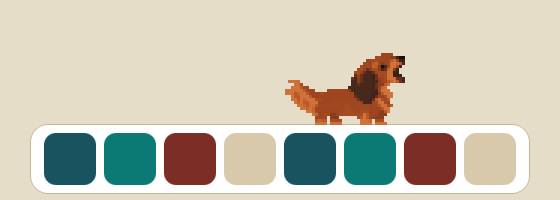
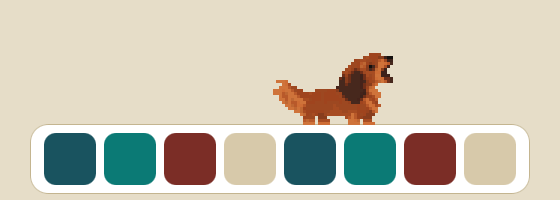
Zadni nohy pri chuzi kracaji (varianta A), chuze s mickem ve 4 fazich
- art/zadni_nohy.py: zadni nohy smaze a domaluje ve ctyrech fazich kroku (blizsi
  a vzdalenejsi noha se stridaji, noha vpred se zvedne); telo, hlava, predni nohy
  a micek zustavaji ze snimku z Higgsfieldu; spousti se i z art/rozrez.py
- s mickem v tlame ma chuze nove 4 snimky (mic_chuze0-3) misto 2
- GIFy na webu pretocene; tools/ukazky.py zna i scenu hlazeni

Changed region(s): [[0.4857, 0.24, 0.7286, 0.63]]

diff --git a/Sources/Pet.swift b/Sources/Pet.swift
@@ -1114,7 +1114,9 @@ final class Pet {
         case 1:
             if DogRenderer.frames["mic_stoji"] == nil { return moving ? walkFrame : "stoji" }
             if !moving { return "mic_stoji" }
-            return Int((phase * 1.3 / (.pi / 2)).rounded(.down)) & 1 == 0 ? "mic_chuze0" : "mic_chuze1"
+            // čtyři fáze kroku (zadní nohy domalované art/zadni_nohy.py); starší sada má jen dvě
+            let k = Int((phase * 1.3 / (.pi / 2)).rounded(.down)) & 3
+            return DogRenderer.frames["mic_chuze\(k)"] != nil ? "mic_chuze\(k)" : (k & 1 == 0 ? "mic_chuze0" : "mic_chuze1")
         default: return "sedi"
         }
     }

diff --git a/art/zadni_nohy.py b/art/zadni_nohy.py
@@ -1,0 +1,140 @@
+#!/usr/bin/env python3
+"""Zadní nohy při chůzi: Higgsfield je nakreslil skoro stejně ve všech snímcích (a s míčkem
+v tlamě má chůze jen dva snímky), takže to vypadalo, že je Julie táhne za sebou.
+Skript zadní nohy smaže a domaluje je ve čtyřech fázích kroku: bližší a vzdálenější noha
+se střídají (vzad – přenos se zvednutou tlapkou – vpřed – pod tělem). Tělo, hlava,
+přední nohy i míček zůstávají ze snímků z Higgsfieldu.
+
+    python3 art/zadni_nohy.py nahled      # jen náhled do art/navrhy/nohy/ (nic nepřepisuje)
+    python3 art/zadni_nohy.py             # zapíše chuze0–3 a mic_chuze0–3 do art/sprity/
+
+Karel 11. 10. 2026 vybral variantu A (celé zadní nohy nově, širší stehno); B nechávala
+huňatá stehna a hýbala jen spodkem nohou. Opakované spuštění dá stejný výsledek.
+
+Souřadnice v pixelech snímku, y roste dolů. Spouští se po art/rozrez.py (ten snímky přepíše).
+"""
+import os, sys
+from PIL import Image
+
+TU = os.path.dirname(os.path.abspath(__file__))
+SPR = os.path.join(TU, "sprity")
+
+BLIZKA = (0x9f, 0x44, 0x1e, 255)       # rezavá srst bližší nohy
+STIN = (0x88, 0x3d, 0x1d, 255)         # zadní hrana a vzdálenější noha
+TLAPKA = (0xce, 0x6d, 0x35, 255)       # světlá tlapka
+TLAPKA_D = (0xa7, 0x4c, 0x22, 255)     # tlapka vzdálenější nohy
+
+# fáze bližší nohy: (posun chodidla vůči kyčli, zvednutí); vzdálenější noha je o dvě fáze dál
+KROK = [(-3, 0), (-1, 1), (2, 0), (0, 0)]
+
+
+def noha(px, w, h, kycel, horni, zem, dx, zdvih, srst, hrana, tlapka, siroka):
+    """Noha od kyčle (x, horni) šikmo k chodidlu (x+dx, zem-zdvih). `siroka` = šířka nahoře
+    (stehno), dole se zúží na 3 px; zadní hrana je tmavší (srst), tlapka o pixel delší dopředu."""
+    spodek = zem - zdvih
+    vyska = max(1, spodek - horni)
+    for y in range(horni, spodek):
+        t = (y - horni) / vyska
+        cx = kycel + dx * t
+        sirka = max(3, round(siroka - (siroka - 3) * min(1, t * 1.6)))
+        x0 = int(round(cx - sirka / 2))
+        for x in range(x0, x0 + sirka):
+            if 0 <= x < w and 0 <= y < h:
+                px[x, y] = hrana if x == x0 else srst
+    x0 = int(round(kycel + dx - 1.5))
+    for x in range(x0, x0 + 4):
+        if 0 <= x < w and 0 <= spodek < h:
+            px[x, spodek] = tlapka
+
+
+def stehna(im, radek, deleni):
+    """Středy zadních stehen v daném řádku (bližší vzadu, vzdálenější blíž středu těla)."""
+    w = im.width
+    plne = [x for x in range(0, deleni + 1) if im.getpixel((x, radek))[3] > 128]
+    if not plne:
+        return 10, 17
+    shluky, zac, pred = [], plne[0], plne[0]
+    for x in plne[1:]:
+        if x != pred + 1:
+            shluky.append((zac, pred)); zac = x
+        pred = x
+    shluky.append((zac, pred))
+    if len(shluky) >= 2:
+        a, b = shluky[0], shluky[-1]
+        return (a[0] + a[1]) / 2, (b[0] + b[1]) / 2
+    a = shluky[0]
+    stred = (a[0] + a[1]) / 2
+    return stred - 2, stred + 2
+
+
+def predelej(zaklad, faze, horni, zem, deleni, kycle, varianta="A"):
+    im = zaklad.copy()
+    px = im.load()
+    w, h = im.size
+    if varianta == "B":
+        # huňatá stehna zůstanou, kráčí holeně a tlapky (od dvou řádků pod břichem)
+        horni = horni + 2
+        kycle = stehna(zaklad, horni - 1, deleni)
+        siroka = (4, 3)
+    else:
+        siroka = (6, 5)
+    for y in range(horni, h):
+        for x in range(0, deleni + 1):
+            px[x, y] = (0, 0, 0, 0)
+    blizka_k, daleka_k = kycle
+    dx, zd = KROK[(faze + 2) % 4]
+    noha(px, w, h, daleka_k, horni, zem, dx, zd, STIN, STIN, TLAPKA_D, siroka[1])
+    dx, zd = KROK[faze]
+    noha(px, w, h, blizka_k, horni, zem, dx, zd, BLIZKA, STIN, TLAPKA, siroka[0])
+    return im
+
+
+def sady(varianta="A"):
+    nacti = lambda n: Image.open(os.path.join(SPR, n + ".png")).convert("RGBA")
+    chuze = [nacti(f"chuze{i}") for i in range(4)]
+    mic = [nacti("mic_chuze0"), nacti("mic_chuze1")]
+    nove_chuze = [predelej(chuze[i], i, 17, 21, 20, (10, 17), varianta) for i in range(4)]
+    nove_mic = [predelej(mic[i % 2], i, 16, 19, 20, (10, 17), varianta) for i in range(4)]
+    return chuze, mic, nove_chuze, nove_mic
+
+
+def nahled(chuze, mic, nove_chuze, nove_mic):
+    """Animovaný náhled: nahoře teď, dole nově; vlevo chůze, vpravo s míčkem. 4× zvětšeno."""
+    out = os.path.join(TU, "navrhy", "nohy")
+    os.makedirs(out, exist_ok=True)
+    K, W, H = 4, 560, 260
+    bg = (230, 221, 200, 255)
+    snimky = []
+    for t in range(24):
+        c = Image.new("RGBA", (W, H), bg)
+        for radek, (a, b) in enumerate([(chuze, mic), (nove_chuze, nove_mic)]):
+            fa = a[t % len(a)]
+            fb = b[t % len(b)]
+            for sloupec, f in enumerate([fa, fb]):
+                big = f.resize((f.width * K, f.height * K), Image.NEAREST)
+                x = 20 + sloupec * 280
+                y = 20 + radek * 125 + (22 - f.height) * K // 2 * 0
+                c.alpha_composite(big, (x + (45 * K // 2 - big.width // 2) // 2, y + 110 - big.height))
+        snimky.append(c.convert("RGB"))
+    snimky[0].save(os.path.join(out, "porovnani.gif"), save_all=True, append_images=snimky[1:], duration=140, loop=0)
+    for i, f in enumerate(nove_chuze):
+        f.resize((f.width * 8, f.height * 8), Image.NEAREST).save(os.path.join(out, f"chuze{i}.png"))
+    for i, f in enumerate(nove_mic):
+        f.resize((f.width * 8, f.height * 8), Image.NEAREST).save(os.path.join(out, f"mic_chuze{i}.png"))
+    print("náhled:", os.path.join(out, "porovnani.gif"))
+
+
+def main():
+    chuze, mic, nove_chuze, nove_mic = sady("A")
+    if len(sys.argv) > 1 and sys.argv[1] == "nahled":
+        nahled(chuze, mic, nove_chuze, nove_mic)
+        return
+    for i, f in enumerate(nove_chuze):
+        f.save(os.path.join(SPR, f"chuze{i}.png"))
+    for i, f in enumerate(nove_mic):
+        f.save(os.path.join(SPR, f"mic_chuze{i}.png"))
+    print("zapsáno: chuze0–3, mic_chuze0–3")
+
+
+if __name__ == "__main__":
+    main()

diff --git a/tools/ukazky.py b/tools/ukazky.py
@@ -11,13 +11,13 @@ snímek pro „omezit pohyb“). Potřebuje Pillow a sestavenou aplikaci (./buil
 import os, sys, shutil, subprocess, tempfile
 from PIL import Image
 
-SCENY = ["chuze", "nora", "pamlsky", "micek", "pelisek", "padak", "veverka"]
+SCENY = ["chuze", "nora", "pamlsky", "micek", "pelisek", "padak", "veverka", "hlazeni"]
 APP = os.path.expanduser("~/Applications/Julie.app/Contents/MacOS/Julie")
 KOREN = os.path.dirname(os.path.dirname(os.path.abspath(__file__)))
 CIL = os.path.join(KOREN, "docs", "ukazky")
 FPS = 25
 # klidový snímek: kolikátá vteřina scény
-KLID = {"chuze": 3.9, "nora": 2.0, "pamlsky": 3.0, "micek": 2.6, "pelisek": 4.0, "padak": 1.5, "veverka": 2.2}
+KLID = {"chuze": 3.9, "nora": 2.0, "pamlsky": 3.0, "micek": 2.6, "pelisek": 4.0, "padak": 1.5, "veverka": 2.2, "hlazeni": 3.0}
 
 
 def gif(sc, slozka):

diff --git a/art/rozrez.py b/art/rozrez.py
@@ -139,3 +139,5 @@ if __name__ == "__main__":
     # hrabání se skládá z jednoho snímku a ručně kreslených tlapek (snímky hrabe0–3)
     import hrabani_tlapky
     hrabani_tlapky.main()
+    import zadni_nohy                 # zadní nohy při chůzi (varianta A, Karel 11. 10. 2026)
+    zadni_nohy.main()
